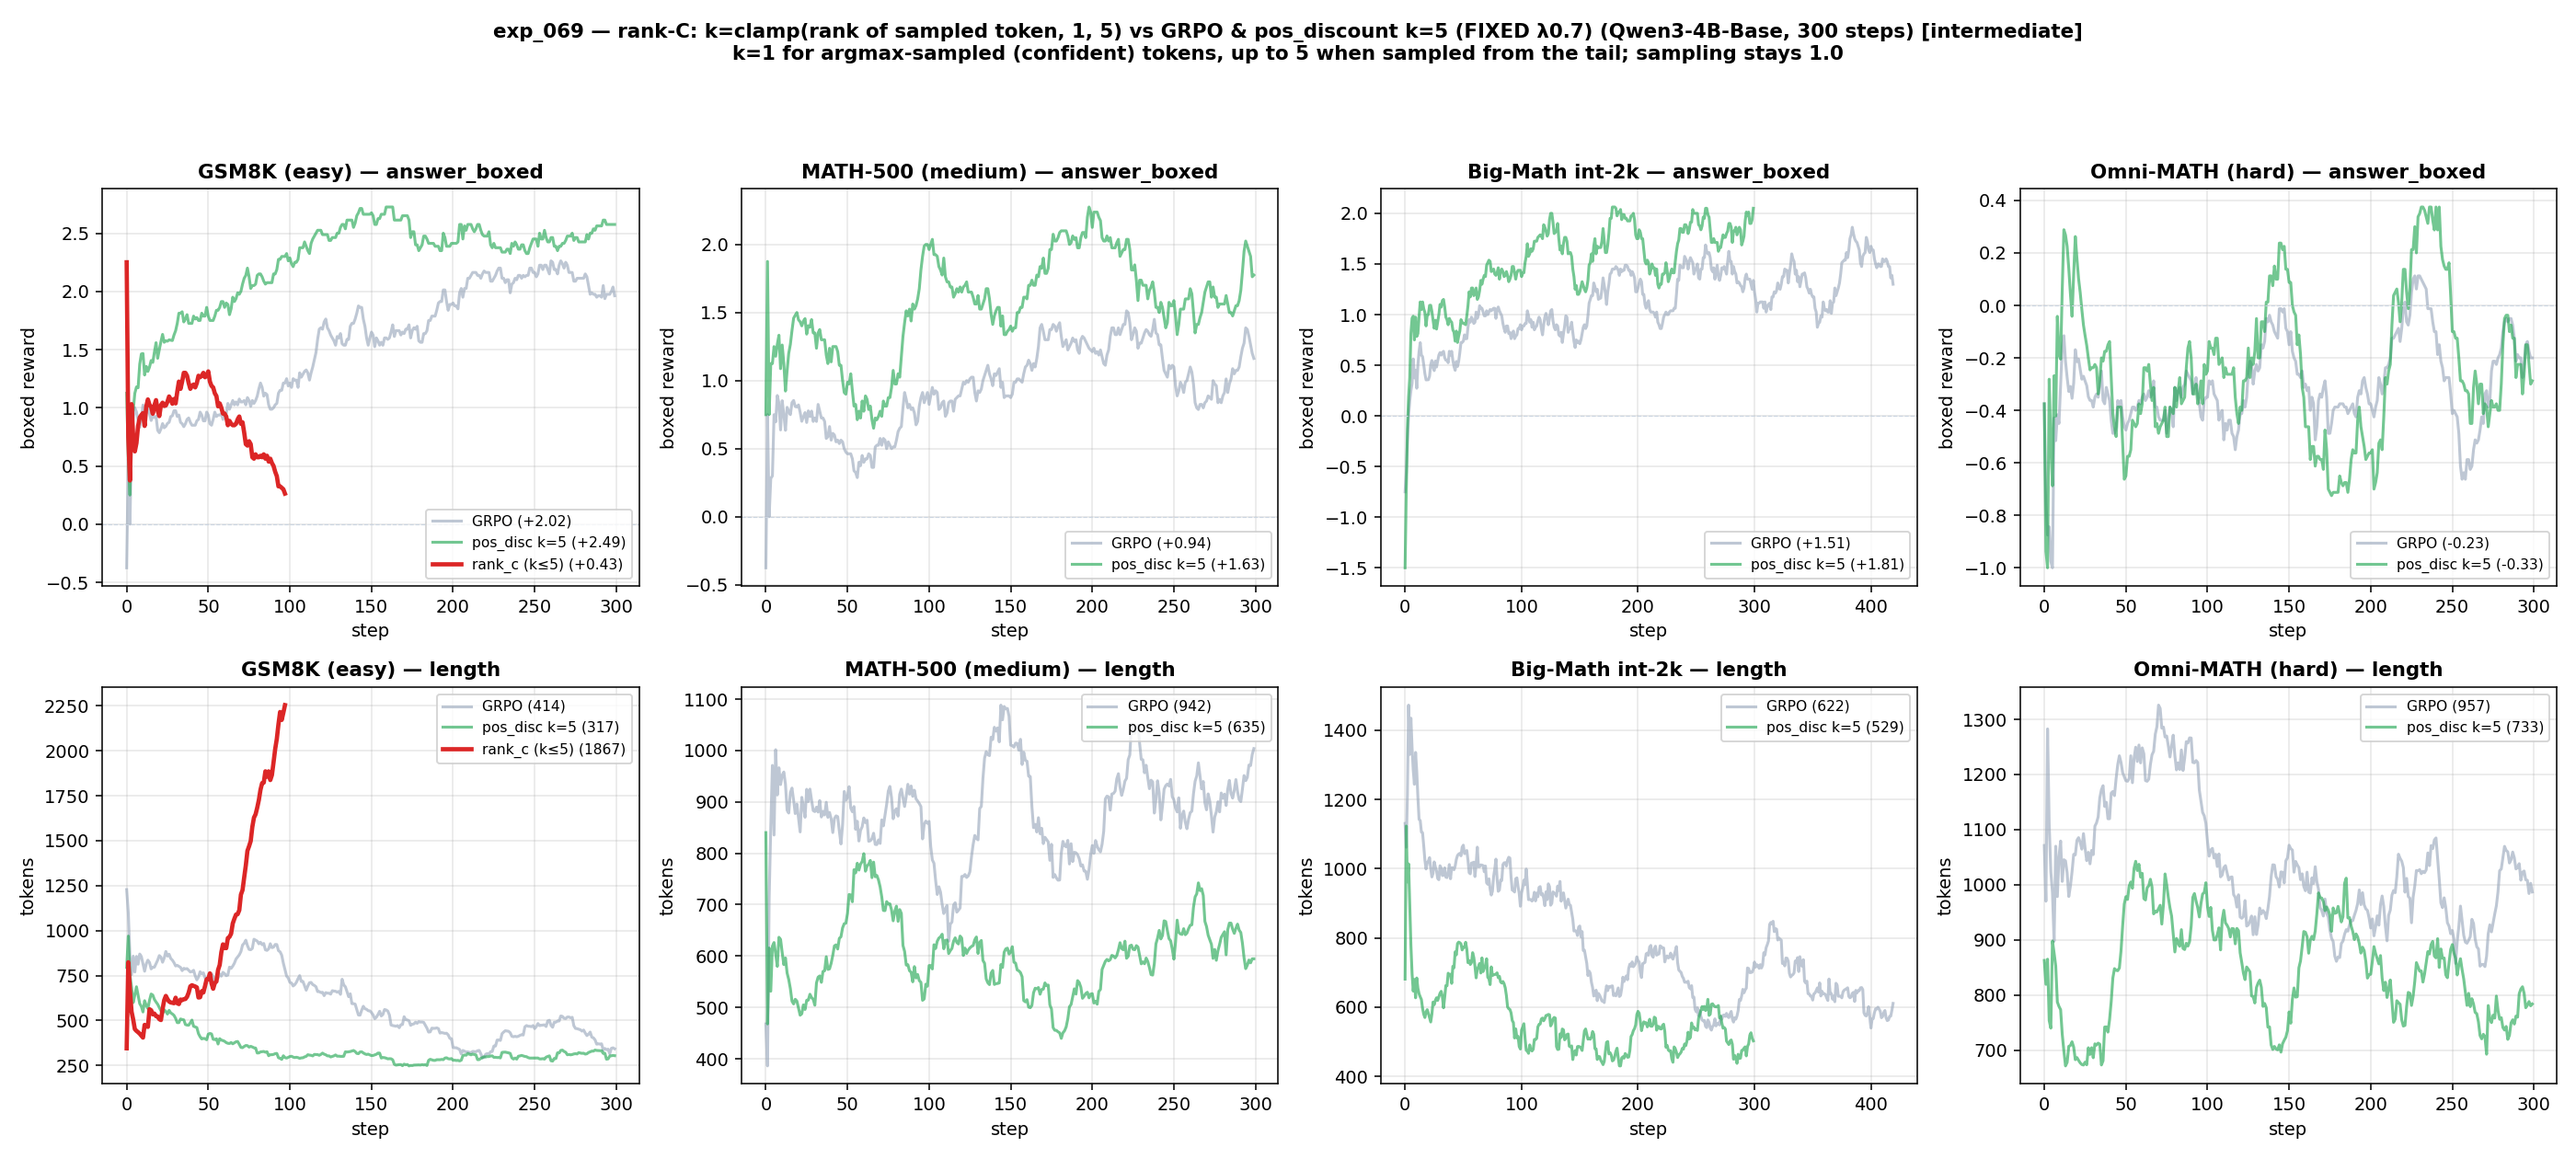
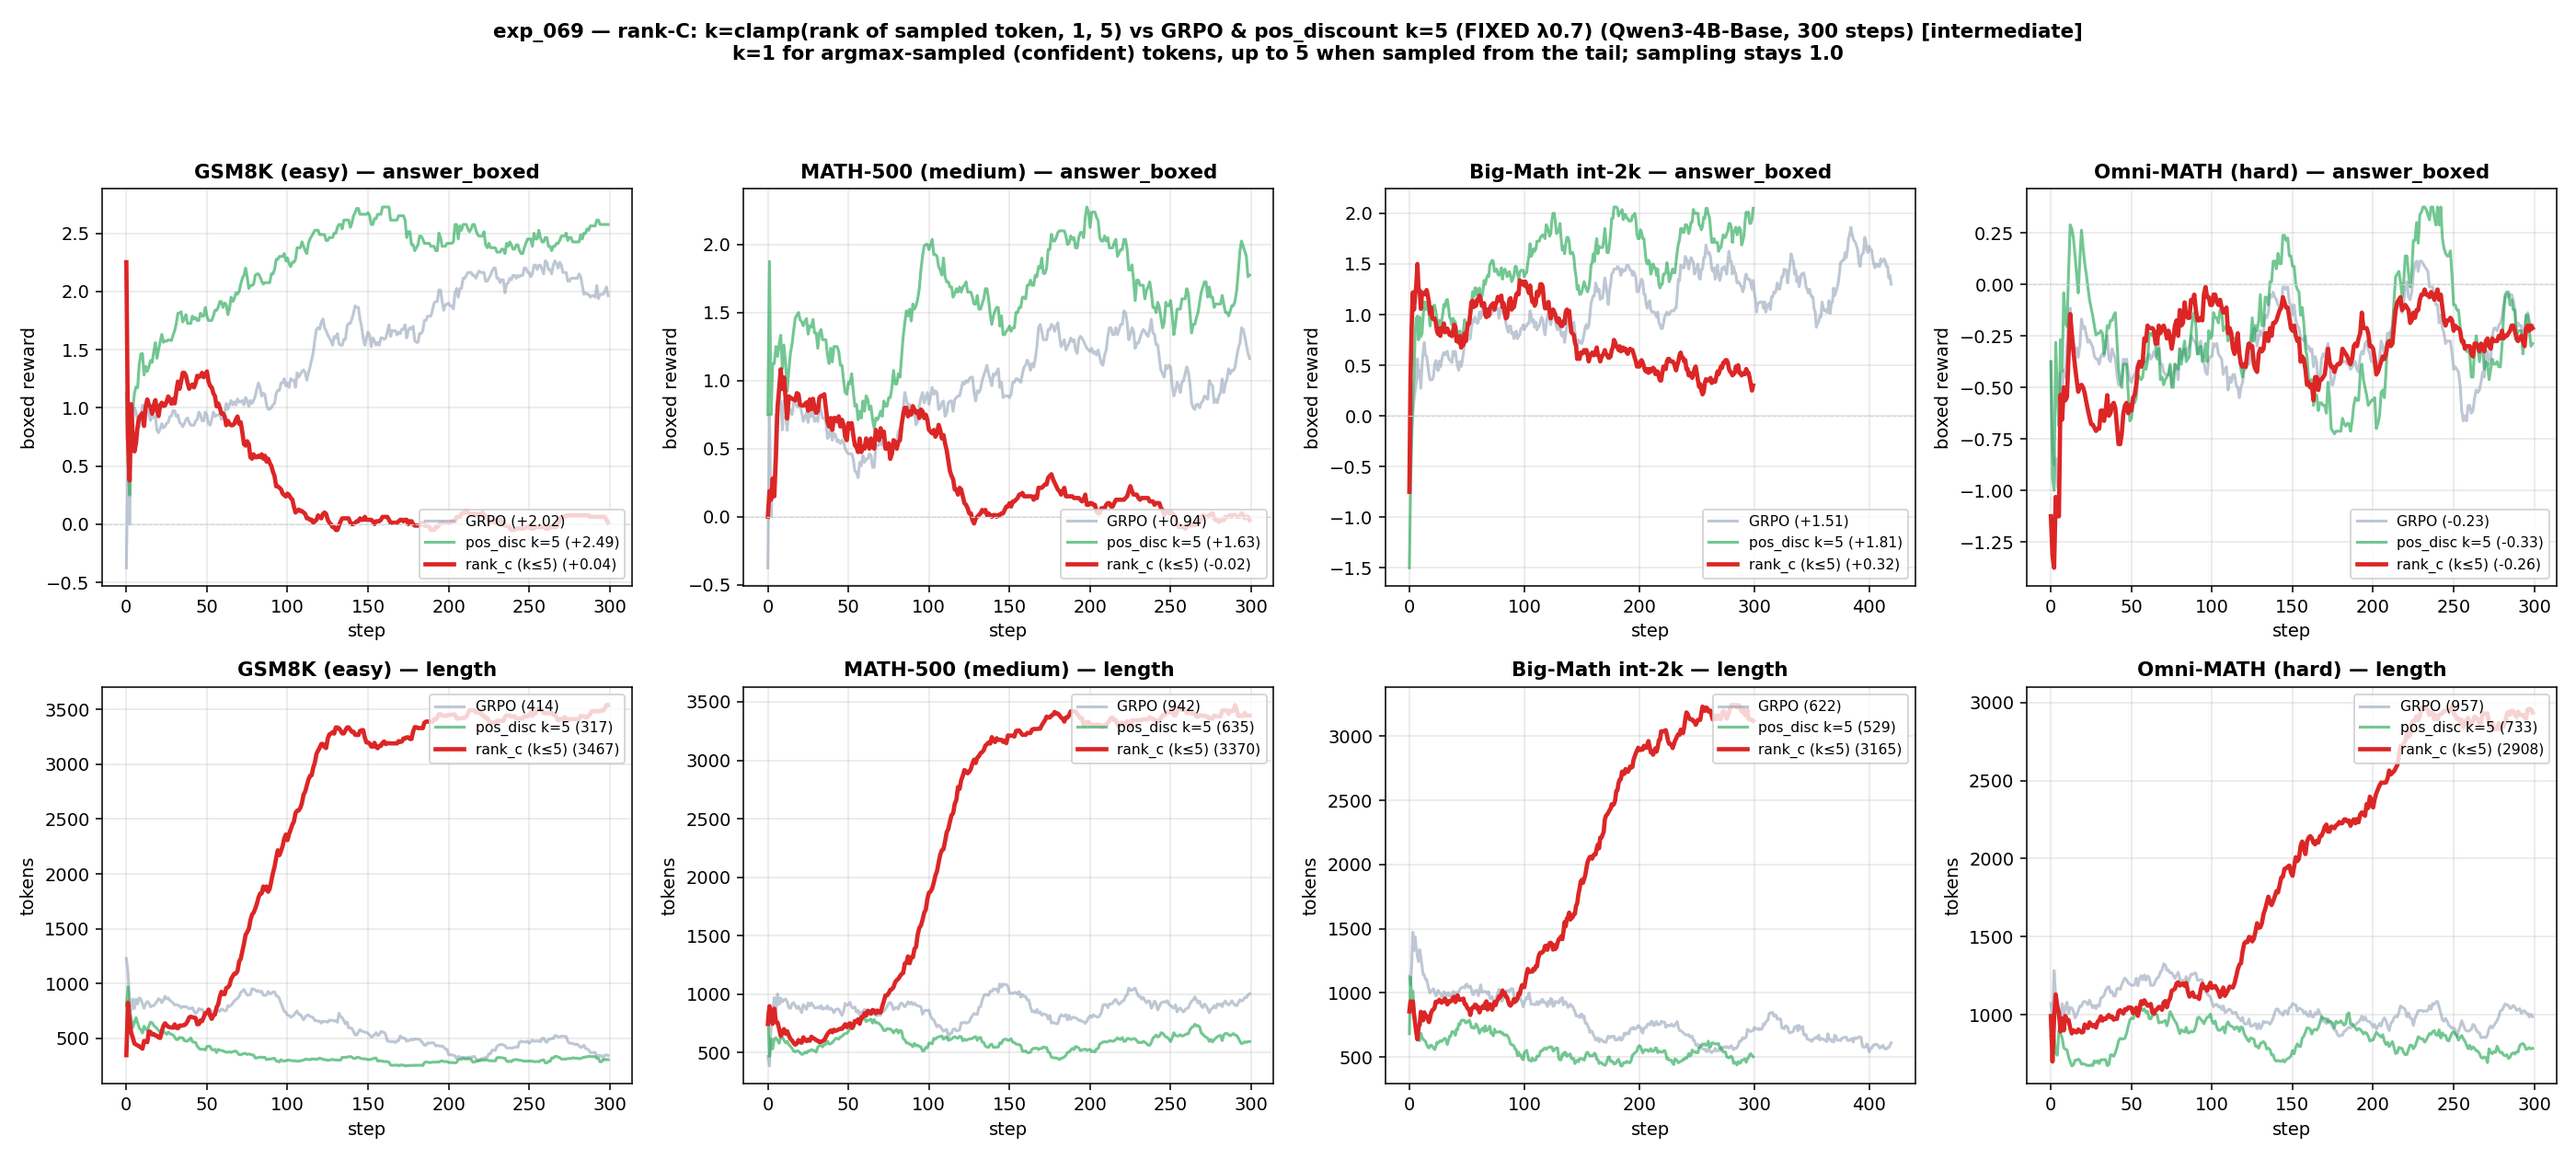
exp_069: FINAL — rank_c collapses on all 4 datasets (negative)
Per-token adaptive k (nucleus or rank) is a dead end for the confidence
signal: model samples argmax ~83% -> k=1 dominates -> same instability as
fixed k=1. Stable recipe remains small fixed top-k (k~3-5, exp_066).

diff --git a/experiments/exp_069_rank_c/README.md b/experiments/exp_069_rank_c/README.md
@@ -51,4 +51,23 @@ exp_063 / exp_066.
 
 ## Results
 
-_(in progress)_
+**NEGATIVE — rank_c collapses on all 4 datasets** (same length-farming failure as nucleus
+exp_068). L50 boxed / L50 length (300 steps):
+
+| dataset | GRPO | pos_disc k=5 (best) | **rank_c (k≤5)** |
+|---|---|---|---|
+| gsm8k    | +2.02 / 414 | **+2.49 / 317** | +0.04 / 3467 ❌ |
+| math500  | +0.94 / 942 | **+1.63 / 635** | −0.02 / 3370 ❌ |
+| bigmath  | +1.51 / 622 | **+1.81 / 529** | +0.32 / 3165 ❌ |
+| omnimath | −0.23 / 957 | −0.33 / 733 | −0.26 / 2908 ❌ |
+
+`rank_c/mean_k ≈ 1.18` throughout (as designed: ~83% of tokens are argmax-sampled → k=1).
+gsm8k held boxed ~+1.0 up to ~step 70, then drifted into collapse (len 720→1867→3467) —
+identical trajectory to nucleus p=0.9.
+
+**Takeaway:** making k depend on the sampled token's rank does NOT rescue the idea. Because
+the model samples its argmax ~83% of the time, k=1 dominates and the confidence signal is
+again essentially `−log p_max` on most tokens → same instability as fixed k=1 (exp_066).
+Adaptivity keyed on rank doesn't help; the *stable* recipe remains a small **fixed** top-k
+(k≈3–5, exp_066). Per-token adaptive k (nucleus or rank) is a dead end for this signal.
+figures/exp069_rank.png.
